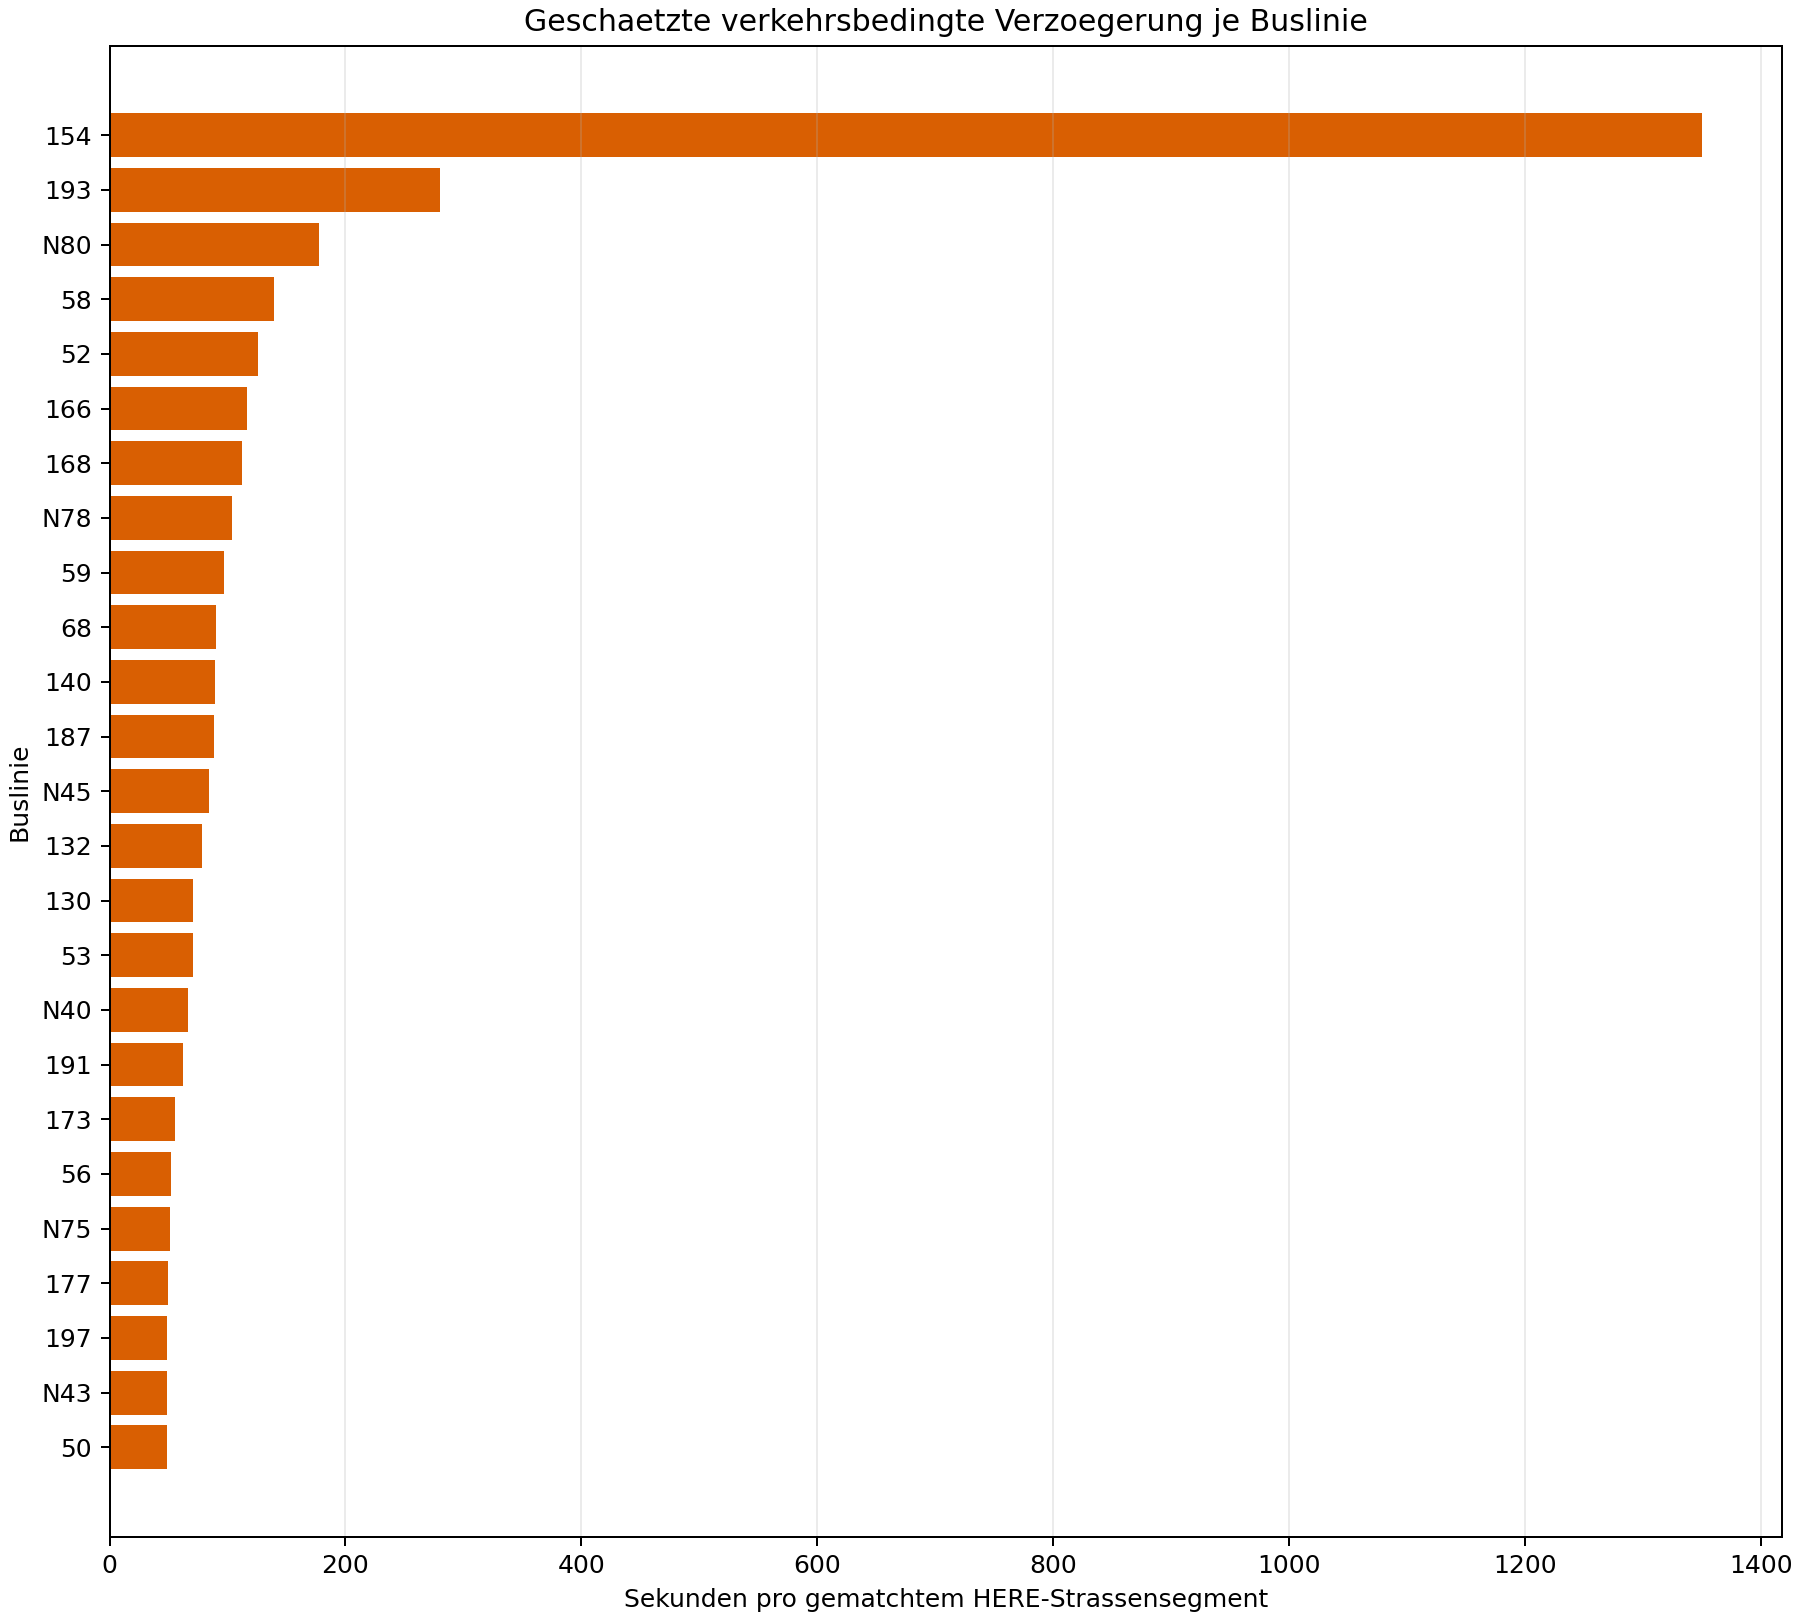
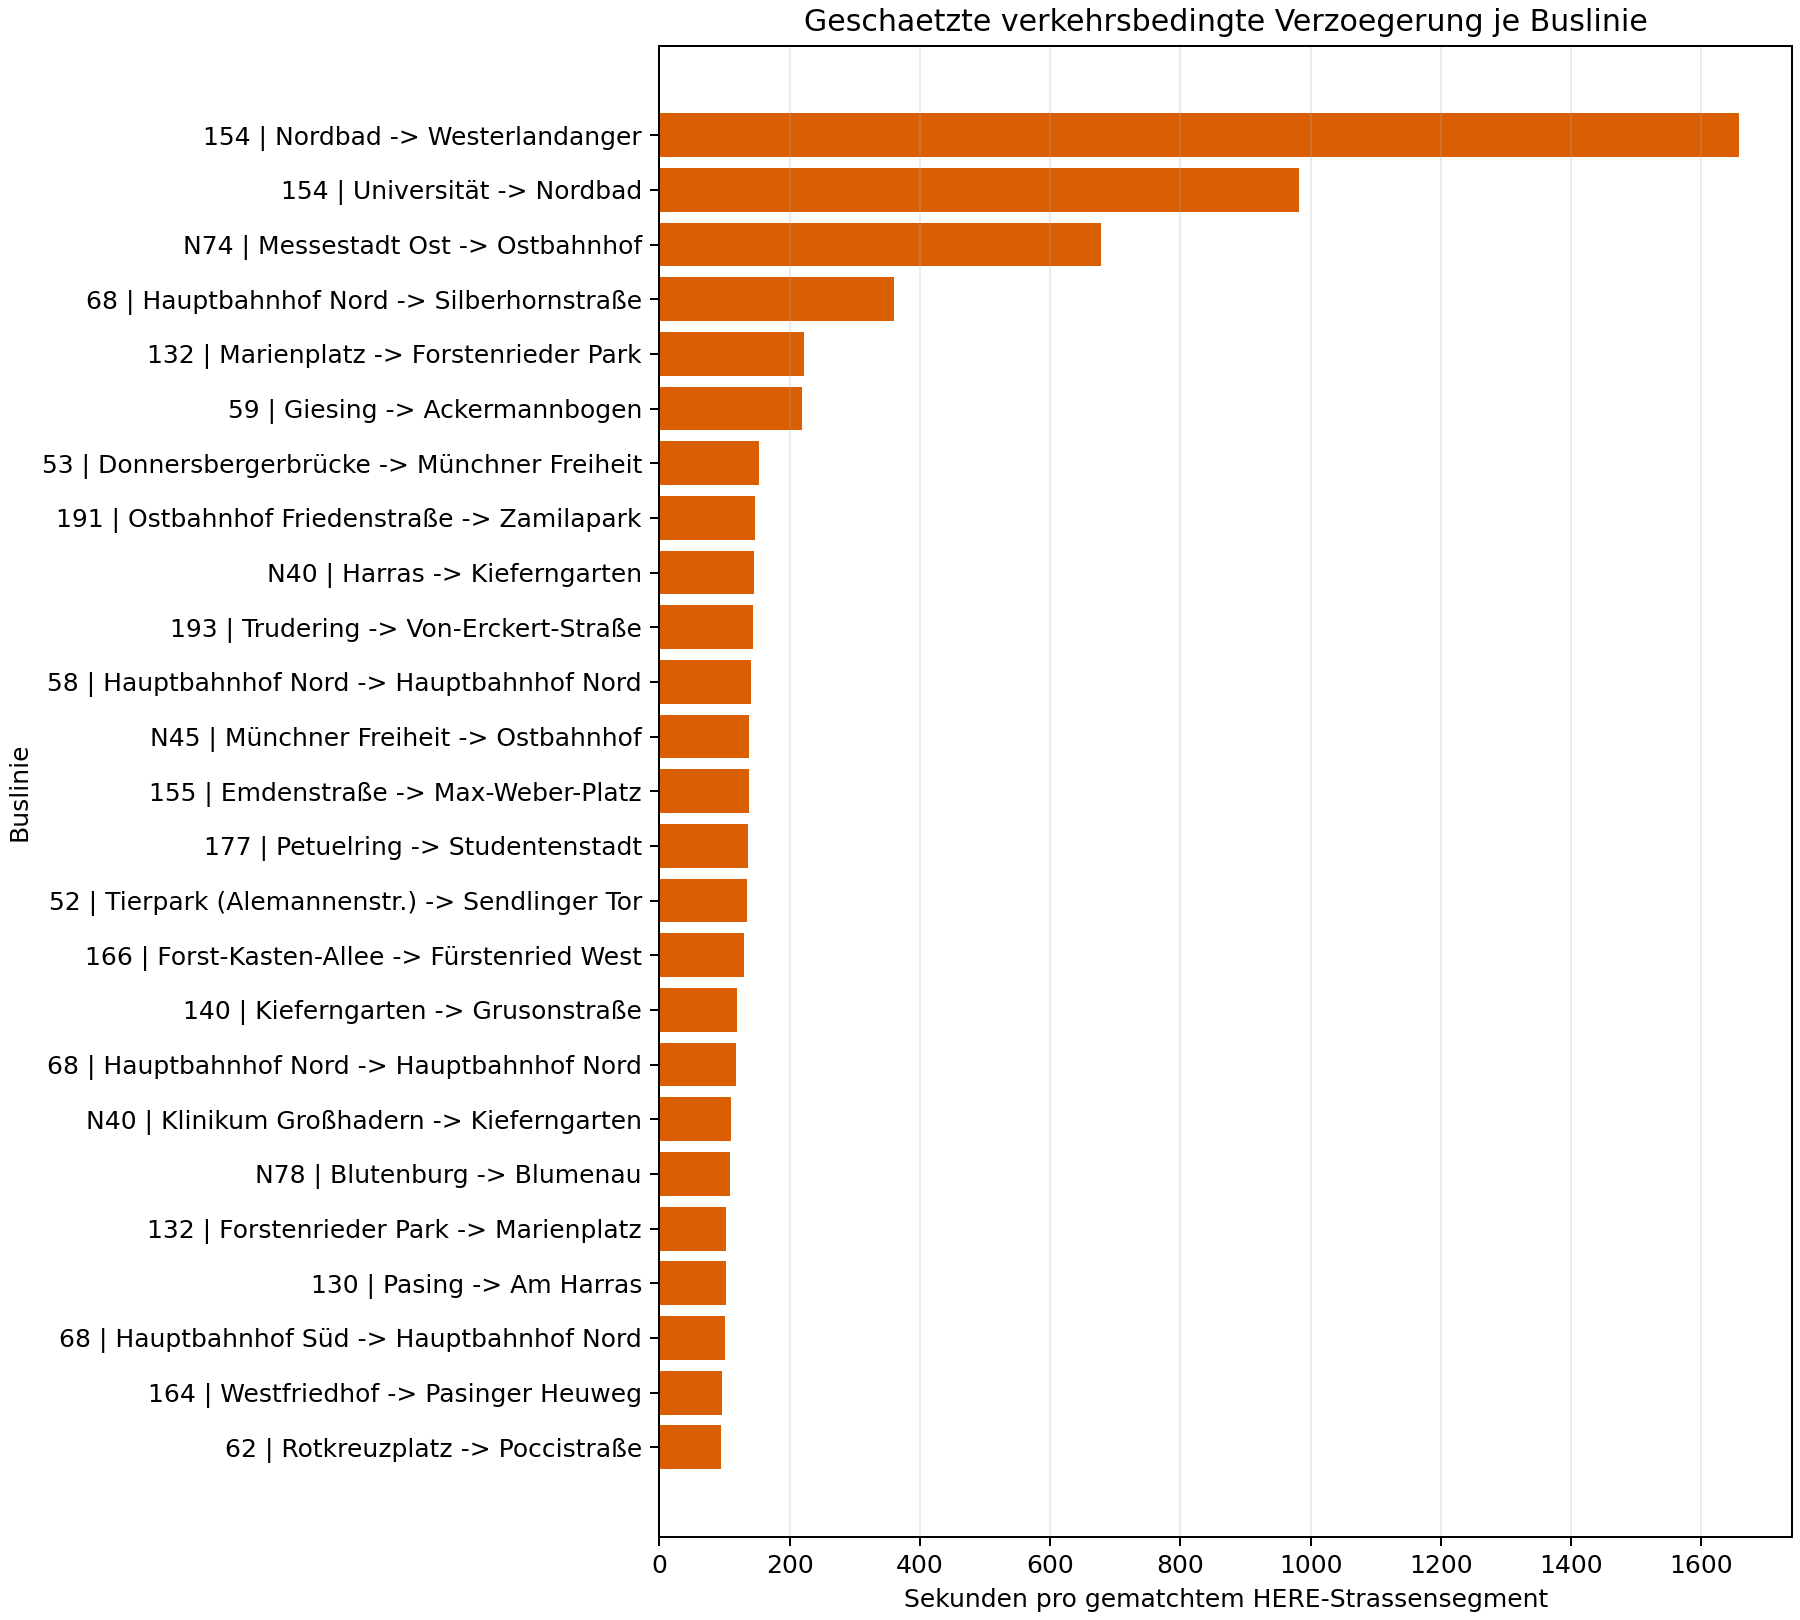
Added Github actions workflow

diff --git a/tests/test_traffic.py b/tests/test_traffic.py
@@ -1,0 +1,162 @@
+from datetime import datetime, timezone
+
+import pandas as pd
+import pytest
+
+from munich_traffic_jam_tracker import traffic
+
+
+def here_result(*, speed=30, free_flow=60, jam_factor=4):
+    return {
+        "location": {
+            "shape": {
+                "links": [
+                    {
+                        "points": [
+                            {"lat": 48.1000, "lng": 11.5000},
+                            {"lat": 48.1000, "lng": 11.5100},
+                        ]
+                    }
+                ]
+            }
+        },
+        "currentFlow": {
+            "speed": speed,
+            "freeFlow": free_flow,
+            "jamFactor": jam_factor,
+        },
+    }
+
+
+def test_fetch_flow_uses_here_v7_bbox_and_returns_results(monkeypatch):
+    captured = {}
+
+    class Response:
+        def raise_for_status(self):
+            captured["raised"] = True
+
+        def json(self):
+            return {"results": [{"id": "road-1"}]}
+
+    def fake_get(url, **kwargs):
+        captured["url"] = url
+        captured["kwargs"] = kwargs
+        return Response()
+
+    monkeypatch.setattr(traffic.requests, "get", fake_get)
+
+    results = traffic.fetch_flow("secret", 11.5, 48.0, 11.6, 48.2)
+
+    assert results == [{"id": "road-1"}]
+    assert captured["url"] == traffic.HERE_FLOW_URL
+    assert captured["kwargs"]["params"] == {
+        "apiKey": "secret",
+        "in": "bbox:11.5,48.0,11.6,48.2",
+        "locationReferencing": "shape",
+    }
+    assert captured["kwargs"]["timeout"] == 30
+    assert captured["raised"] is True
+
+
+def test_parse_flow_results_calculates_delay_and_skips_invalid_records():
+    flow = traffic.parse_flow_results(
+        [
+            here_result(speed=30, free_flow=60),
+            {"location": {"shape": {"points": [{"lat": 48.1, "lng": 11.5}]}}, "currentFlow": {}},
+        ]
+    )
+
+    assert len(flow) == 1
+    assert flow.iloc[0]["length_km"] == pytest.approx(0.744, abs=0.01)
+    assert flow.iloc[0]["delay_seconds"] == pytest.approx(flow.iloc[0]["length_km"] / 60 * 3600)
+    assert flow.iloc[0]["jam_factor"] == 4
+
+
+def test_match_flow_to_patterns_keeps_direction_and_rejects_distant_flow():
+    flow = pd.DataFrame(
+        [
+            {
+                "latitude": 48.1,
+                "longitude": 11.505,
+                "length_km": 1.0,
+                "speed_kph": 30.0,
+                "free_flow_kph": 60.0,
+                "jam_factor": 4.0,
+                "delay_seconds": 60.0,
+            },
+            {
+                "latitude": 49.0,
+                "longitude": 12.0,
+                "length_km": 1.0,
+                "speed_kph": 30.0,
+                "free_flow_kph": 60.0,
+                "jam_factor": 4.0,
+                "delay_seconds": 60.0,
+            },
+        ]
+    )
+    pattern_stops = pd.DataFrame(
+        {
+            "pattern_id": ["p1", "p1"],
+            "route_short_name": ["58", "58"],
+            "direction_label": ["Start -> Ende", "Start -> Ende"],
+            "stop_sequence": [0, 1],
+            "stop_lat": [48.1, 48.1],
+            "stop_lon": [11.5, 11.51],
+        }
+    )
+
+    matches = traffic.match_flow_to_patterns(flow, pattern_stops, max_distance_km=0.1)
+
+    assert len(matches) == 1
+    assert matches.iloc[0]["direction_label"] == "Start -> Ende"
+
+
+def test_summarize_traffic_returns_line_direction_rows():
+    matches = pd.DataFrame(
+        [
+            {"pattern_id": "p1", "route_short_name": "58", "direction_label": "A -> B", "length_km": 1.0, "delay_seconds": 20.0, "jam_factor": 2.0},
+            {"pattern_id": "p1", "route_short_name": "58", "direction_label": "A -> B", "length_km": 3.0, "delay_seconds": 40.0, "jam_factor": 4.0},
+            {"pattern_id": "p2", "route_short_name": "58", "direction_label": "B -> A", "length_km": 1.0, "delay_seconds": 80.0, "jam_factor": 8.0},
+        ]
+    )
+    patterns = pd.DataFrame(
+        {
+            "pattern_id": ["p1", "p2"],
+            "route_short_name": ["58", "58"],
+            "direction_label": ["A -> B", "B -> A"],
+        }
+    )
+
+    pattern_summary, line_summary = traffic.summarize_traffic(matches, patterns)
+
+    assert len(line_summary) == 2
+    assert set(line_summary["direction_label"]) == {"A -> B", "B -> A"}
+    forward = line_summary.loc[line_summary["direction_label"] == "A -> B", "traffic_delay_seconds"].iat[0]
+    assert forward == pytest.approx(35.0)
+
+
+def test_append_snapshot_replaces_same_timestamp_and_history_averages(tmp_path):
+    history_path = tmp_path / "traffic_history.parquet"
+    snapshot = pd.DataFrame(
+        {
+            "pattern_id": ["p1"],
+            "route_short_name": ["58"],
+            "direction_label": ["A -> B"],
+            "traffic_delay_seconds": [20.0],
+            "traffic_jam_factor": [2.0],
+            "matched_flow_segments": [1],
+        }
+    )
+    first = datetime(2026, 9, 12, 10, tzinfo=timezone.utc)
+    second = datetime(2026, 9, 12, 11, tzinfo=timezone.utc)
+
+    traffic.append_traffic_snapshot(history_path, snapshot, first)
+    traffic.append_traffic_snapshot(history_path, snapshot.assign(traffic_delay_seconds=99.0), first)
+    history = traffic.append_traffic_snapshot(history_path, snapshot.assign(traffic_delay_seconds=40.0), second)
+    pattern_mean, line_mean = traffic.summarize_traffic_history(history)
+
+    assert len(history) == 2
+    assert history["observed_at"].dt.tz is not None
+    assert pattern_mean.iloc[0]["traffic_delay_seconds"] == pytest.approx(69.5)
+    assert line_mean.iloc[0]["observation_count"] == 2

diff --git a/src/munich_traffic_jam_tracker/traffic.py b/src/munich_traffic_jam_tracker/traffic.py
@@ -3,6 +3,8 @@
 from __future__ import annotations
 
 import math
+from datetime import datetime, timezone
+from pathlib import Path
 from typing import Any
 
 import pandas as pd
@@ -182,3 +184,57 @@ def summarize_traffic(matches: pd.DataFrame, patterns: pd.DataFrame) -> tuple[pd
         matched_flow_segments=("matched_flow_segments", "sum"),
     )
     return pattern_summary, route_summary
+
+
+def append_traffic_snapshot(
+    history_path: Path,
+    traffic_by_pattern: pd.DataFrame,
+    observed_at: datetime | None = None,
+) -> pd.DataFrame:
+    """Append one hourly pattern snapshot and return the complete history."""
+    timestamp = observed_at or datetime.now(timezone.utc)
+    timestamp_value = pd.Timestamp(timestamp)
+    timestamp_value = (
+        timestamp_value.tz_localize("UTC")
+        if timestamp_value.tzinfo is None
+        else timestamp_value.tz_convert("UTC")
+    )
+    snapshot = traffic_by_pattern.copy()
+    snapshot.insert(0, "observed_at", timestamp_value)
+    if history_path.exists():
+        history = pd.read_parquet(history_path)
+        history = pd.concat([history, snapshot], ignore_index=True)
+    else:
+        history = snapshot
+    history["observed_at"] = pd.to_datetime(history["observed_at"], utc=True)
+    history = history.drop_duplicates(subset=["observed_at", "pattern_id"], keep="last")
+    history = history.sort_values(["observed_at", "route_short_name", "direction_label"])
+    history_path.parent.mkdir(parents=True, exist_ok=True)
+    history.to_parquet(history_path, index=False)
+    return history
+
+
+def summarize_traffic_history(history: pd.DataFrame) -> tuple[pd.DataFrame, pd.DataFrame]:
+    """Calculate all-time mean traffic estimates by pattern and direction."""
+    if history.empty:
+        return history.copy(), pd.DataFrame()
+    pattern_columns = ["pattern_id", "route_short_name", "direction_label"]
+    pattern_summary = history.groupby(pattern_columns, as_index=False).agg(
+        traffic_delay_seconds=("traffic_delay_seconds", "mean"),
+        traffic_jam_factor=("traffic_jam_factor", "mean"),
+        matched_flow_segments=("matched_flow_segments", "mean"),
+        observation_count=("observed_at", "nunique"),
+        first_observed_at=("observed_at", "min"),
+        last_observed_at=("observed_at", "max"),
+    )
+    line_summary = pattern_summary.groupby(
+        ["route_short_name", "direction_label"], as_index=False
+    ).agg(
+        traffic_delay_seconds=("traffic_delay_seconds", "mean"),
+        traffic_jam_factor=("traffic_jam_factor", "mean"),
+        matched_flow_segments=("matched_flow_segments", "mean"),
+        observation_count=("observation_count", "max"),
+        first_observed_at=("first_observed_at", "min"),
+        last_observed_at=("last_observed_at", "max"),
+    )
+    return pattern_summary, line_summary

diff --git a/src/munich_traffic_jam_tracker/cli.py b/src/munich_traffic_jam_tracker/cli.py
@@ -16,7 +16,14 @@ from .patterns import (
 )
 from .plotting import plot_corridor_map, plot_top_patterns
 from .plotting import plot_traffic_delay_by_line, plot_traffic_delay_map
-from .traffic import fetch_flow, match_flow_to_patterns, parse_flow_results, summarize_traffic
+from .traffic import (
+    append_traffic_snapshot,
+    fetch_flow,
+    match_flow_to_patterns,
+    parse_flow_results,
+    summarize_traffic,
+    summarize_traffic_history,
+)
 
 
 def derive_command(arguments: argparse.Namespace) -> None:
@@ -47,12 +54,18 @@ def derive_command(arguments: argparse.Namespace) -> None:
         results = fetch_flow(api_key, west, south, east, north)
         flow = parse_flow_results(results)
         matches = match_flow_to_patterns(flow, pattern_stops)
-        traffic_by_pattern, traffic_by_line = summarize_traffic(matches, patterns)
-        traffic_by_pattern.to_csv(output_dir / "bus_pattern_traffic.csv", index=False)
-        traffic_by_line.to_csv(output_dir / "bus_line_traffic.csv", index=False)
-        plot_traffic_delay_by_line(traffic_by_line, plots_dir / "bus_line_traffic_delay.png")
-        plot_traffic_delay_map(traffic_by_pattern, pattern_stops, plots_dir / "bus_traffic_delay_map.png")
-        print(f"Matched {len(matches)} HERE flow segments and wrote traffic estimates")
+        current_by_pattern, _ = summarize_traffic(matches, patterns)
+        history_path = output_dir / "traffic_history.parquet"
+        if current_by_pattern.empty:
+            print("HERE returned no flow segments matching the bus corridors; history unchanged")
+        else:
+            history = append_traffic_snapshot(history_path, current_by_pattern)
+            traffic_by_pattern, traffic_by_line = summarize_traffic_history(history)
+            traffic_by_pattern.to_csv(output_dir / "bus_pattern_traffic.csv", index=False)
+            traffic_by_line.to_csv(output_dir / "bus_line_traffic.csv", index=False)
+            plot_traffic_delay_by_line(traffic_by_line, plots_dir / "bus_line_traffic_delay.png")
+            plot_traffic_delay_map(traffic_by_pattern, pattern_stops, plots_dir / "bus_traffic_delay_map.png")
+            print(f"Matched {len(matches)} HERE flow segments and wrote traffic estimates")
     print(f"Wrote {len(patterns)} patterns and {len(pattern_stops)} pattern stops to {output_dir}")
 
 

diff --git a/tests/test_patterns.py b/tests/test_patterns.py
@@ -2,6 +2,7 @@ import pandas as pd
 
 from munich_traffic_jam_tracker.patterns import derive_patterns
 from munich_traffic_jam_tracker.traffic import match_flow_to_patterns, parse_flow_results
+from munich_traffic_jam_tracker.traffic import append_traffic_snapshot, summarize_traffic_history
 
 
 def test_derives_stable_pattern_and_terminal_direction_without_gtfs_direction():
@@ -49,4 +50,30 @@ def test_parses_and_matches_here_flow_to_a_pattern():
     assert len(flow) == 1
     assert len(matches) == 1
     assert matches.iloc[0]["delay_seconds"] > 0
+
+
+def test_appends_hourly_snapshot_and_calculates_all_time_mean(tmp_path):
+    snapshot = pd.DataFrame(
+        {
+            "pattern_id": ["pattern-1"],
+            "route_short_name": ["58"],
+            "direction_label": ["Start -> Ende"],
+            "traffic_delay_seconds": [30.0],
+            "traffic_jam_factor": [3.0],
+            "matched_flow_segments": [2],
+        }
+    )
+    history_path = tmp_path / "traffic_history.parquet"
+
+    append_traffic_snapshot(history_path, snapshot, pd.Timestamp("2026-01-01T10:00:00Z"))
+    history = append_traffic_snapshot(
+        history_path,
+        snapshot.assign(traffic_delay_seconds=50.0),
+        pd.Timestamp("2026-01-01T11:00:00Z"),
+    )
+    pattern_mean, line_mean = summarize_traffic_history(history)
+
+    assert len(history) == 2
+    assert pattern_mean.iloc[0]["traffic_delay_seconds"] == 40.0
+    assert line_mean.iloc[0]["observation_count"] == 2
 

diff --git a/README.md b/README.md
@@ -28,10 +28,20 @@ Results are written to `data/derived/`:
 - `bus_corridors.geojson`: line candidates joining consecutive stops
 - `bus_pattern_traffic.csv`: HERE-Verkehrsschätzung je GTFS-Muster
 - `bus_line_traffic.csv`: HERE-Verkehrsschätzung je Buslinie und Richtung
+- `traffic_history.parquet`: alle stündlichen HERE-Snapshots mit UTC-Zeitstempel
 - `plots/top_bus_patterns.png`: most frequent patterns by line
 - `plots/bus_corridor_map.png`: a map of the most common corridor candidates
 - `plots/bus_line_traffic_delay.png`: Linien-Ranking nach geschätzter Verzögerung
 - `plots/bus_traffic_delay_map.png`: Korridore eingefärbt nach geschätzter Verzögerung
+
+## GitHub Actions
+
+Der Workflow `.github/workflows/update-traffic.yml` ruft die HERE API stündlich
+auf. Dafür muss im Repository unter **Settings > Secrets and variables >
+Actions** ein Repository-Secret namens `HERE_API_KEY` angelegt werden. Jeder
+Lauf hängt einen Snapshot an `traffic_history.parquet` an und committed die
+aktualisierten CSVs und Plots. Die veröffentlichten Traffic-Werte und Plots
+sind Mittelwerte über alle gespeicherten Snapshots.
 
 Die HERE-Werte beschreiben den aktuellen Straßenverkehr und sind deshalb eine
 verkehrsbedingte Verzögerungsschätzung für Buskorridore, keine tatsächliche
